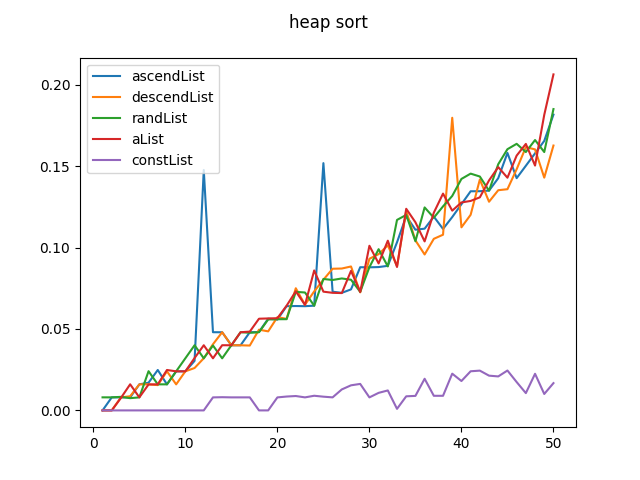
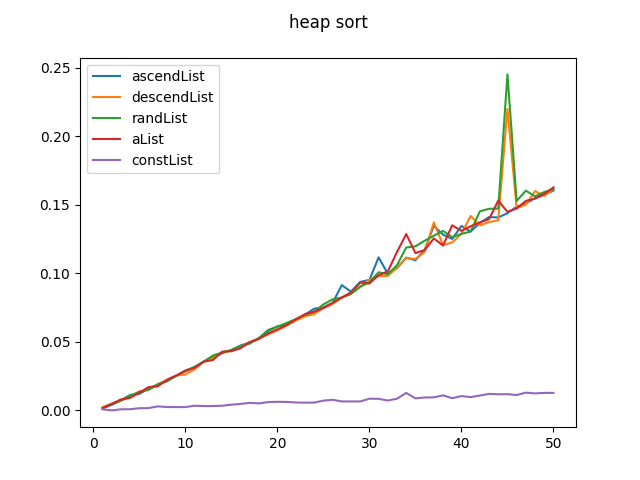
graphs

diff --git a/sorts.py b/sorts.py
@@ -2,28 +2,26 @@ import sys
 import random
 sys.setrecursionlimit(2147483647)
 def selectionSort(array):
-    new_array = array[:]
-    for i in range(len(new_array)):
-        minVal = new_array[i]
+    for i in range(len(array)):
+        minVal = array[i]
         minIndex = i
-        for j in range(i, len(new_array)):
-            if minVal > new_array[j]:
-                minVal = new_array[j]
+        for j in range(i, len(array)):
+            if minVal > array[j]:
+                minVal = array[j]
                 minIndex = j
-        if new_array[minIndex] != new_array[i]:
-            new_array[i], new_array[minIndex] = minVal, new_array[i]
-    return new_array
+        if array[minIndex] != array[i]:
+            array[i], array[minIndex] = minVal, array[i]
+    return array
 
 
 def insertionSort(array):
-    new_array = array[:]
-    for i in range(1, len(new_array)):
-        while i > 0 and new_array[i] < new_array[i-1]:
-            temp = new_array[i-1]
-            new_array[i-1] = new_array[i]
-            new_array[i] = temp
+    for i in range(1, len(array)):
+        while i > 0 and array[i] < array[i-1]:
+            temp = array[i-1]
+            array[i-1] = array[i]
+            array[i] = temp
             i -= 1
-    return new_array
+    return array
 #------------------------------SHELL SORT-----------------------
 def sedwick(n):
     sedwick_list = [1]
@@ -40,16 +38,15 @@ def sedwick(n):
 
 def shellSort(array):
     sedwick_list = sedwick(len(array))
-    new_array = list(array)
     for val in sedwick_list:
-        for i in range(val, len(new_array)):
-            temp = new_array[i]
+        for i in range(val, len(array)):
+            temp = array[i]
             j = i
-            while j >= val and new_array[j - val] > temp:
-                new_array[j] = new_array[j - val]
+            while j >= val and array[j - val] > temp:
+                array[j] = array[j - val]
                 j -= val
-            new_array[j] = temp
-    return new_array
+            array[j] = temp
+    return array
 
 #----------------------------HEAP SORT----------------------------------------
 
@@ -75,18 +72,17 @@ def kopcowanie(array, koniec, i):
 
 
 def heapSort(array):
-    new_array = list(array)
     #---------------ROBIENIE KOPCA----------------
-    for i in range(len(new_array)//2 - 1, -1, -1):
-        kopcowanie(new_array, len(new_array), i)
+    for i in range(len(array)//2 - 1, -1, -1):
+        kopcowanie(array, len(array), i)
 
     # #-------------Root z kopca idzicie na koniec---------
-    for i in range(len(new_array)-1, 0, -1):
-        temp = new_array[i]
-        new_array[i] = new_array[0]
-        new_array[0] = temp
-        kopcowanie(new_array, i, 0)
-    return new_array
+    for i in range(len(array)-1, 0, -1):
+        temp = array[i]
+        array[i] = array[0]
+        array[0] = temp
+        kopcowanie(array, i, 0)
+    return array
 
 #--------------------Qucik Sort--------------------------
 
@@ -107,15 +103,12 @@ def parttioton(array, low, high):
         else:
             return end
 
-def quickSort(array, low, high):
+# def quickSort(array, low, high):
 
-    if low<high:
-        pivot = parttioton(array, low, high)
-        quickSort(array, low, pivot)
-        quickSort(array, pivot + 1, high)
-
-
-
+#     if low<high:
+#         pivot = parttioton(array, low, high)
+#         quickSort(array, low, pivot)
+#         quickSort(array, pivot + 1, high)
 # def parttiotonRandom(array, low, high):
 #     pivot = random.choice(array[low:high])
 #     start = low
@@ -144,23 +137,22 @@ def quickSort(array, low, high):
 # quickSortRandom(test, 0, len(test) - 1)
 
 def Quicksort(array):
-  arr = array[:]
     
-  if len(arr) <= 1:
-        return arr
+  if len(array) <= 1:
+        return array
   
-  stack = [(0, len(arr)-1)]
+  stack = [(0, len(array)-1)]
 
   while stack:
       
       left, right = stack.pop()
-      cut = partition(arr, left, right)
+      cut = partition(array, left, right)
       if cut > left:
           stack.append((left, cut))
       if cut + 1 < right:
           stack.append((cut +1, right))
   
-  return arr
+  return array
 
 
       

diff --git a/graphs.py b/graphs.py
@@ -16,7 +16,10 @@ for line in dataRead:
         ax.set_title(line)
 
     elif line == "\n":
+        # --- for multiple graphs --- #
+        # # tu możesz zmieniać nazwe do jakiego pliku zapisać, jeśli jest już plik o tej nazwie to nadpisze go 
         fig.savefig(sortG)
+        # tego nie tykaj #
         pass
     else:
         ls = line.split(':')
@@ -35,13 +38,15 @@ for line in dataRead:
             # --- for single graphs --- #
             # plt.plot(x, y)
             # plt.title(f"{sortG} - {ls[0]}")
-            # # plt.axex.set_autoscale_on(True)
             # plt.xlabel(f"skala: {str(factor)}")
             # plt.ylabel(f"in Seconds")
+            # # tu możesz zmieniać nazwe do jakiego pliku zapisać, jeśli jest już plik o tej nazwie to nadpisze go 
             # plt.savefig(f"./graphs/{sortG}-{ls[0]}")
             # plt.close()
             # --- for multiple graphs --- #
             ax.plot(x, y, label=ls[0])
+            ax.xlabel(f"skala: {str(factor)}")
+            ax.ylabel(f"in Seconds")
             ax.legend(loc="upper left")
         print(f"{ls[0]}\n{x}\n{y}")
     i += 1

diff --git a/main.py b/main.py
@@ -4,6 +4,7 @@ import time
 
 graphData = []
 
+testsPerSort = 10
 
 for a in testSizeList:
     listDict = generator(a)
@@ -11,11 +12,16 @@ for a in testSizeList:
       print(f"{m} {a} \n ----------------")
       for k, v in listDict.items():
         print(k)
-        start = time.time_ns()
-        s(v)
-        end = time.time_ns()
-        timeTaken = (end - start)/(10 ** 9)
-        graphData.append([m, k, a, timeTaken])
+        temp = v[:]
+        av = 0
+        for f in range(10):
+          start = time.time_ns()
+          s(temp)
+          end = time.time_ns()
+          timeTaken = (end - start)/(10 ** 9)
+          av += timeTaken
+        av = av/testsPerSort
+        graphData.append([m, k, a, av])
         
 # print(graphData)
 
